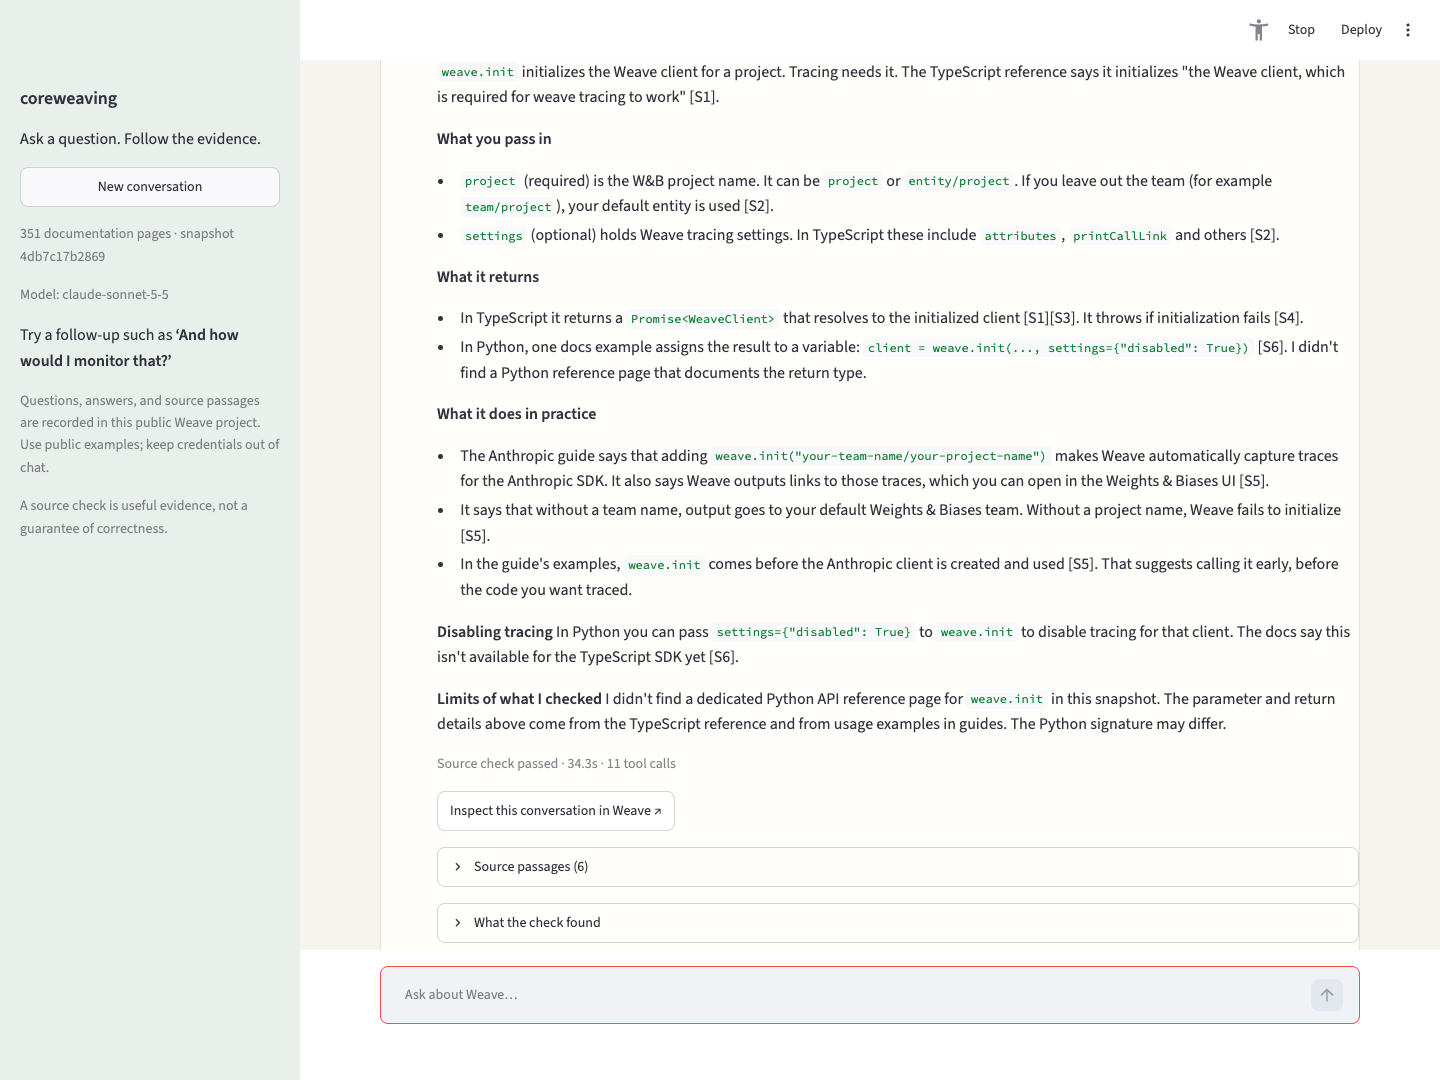
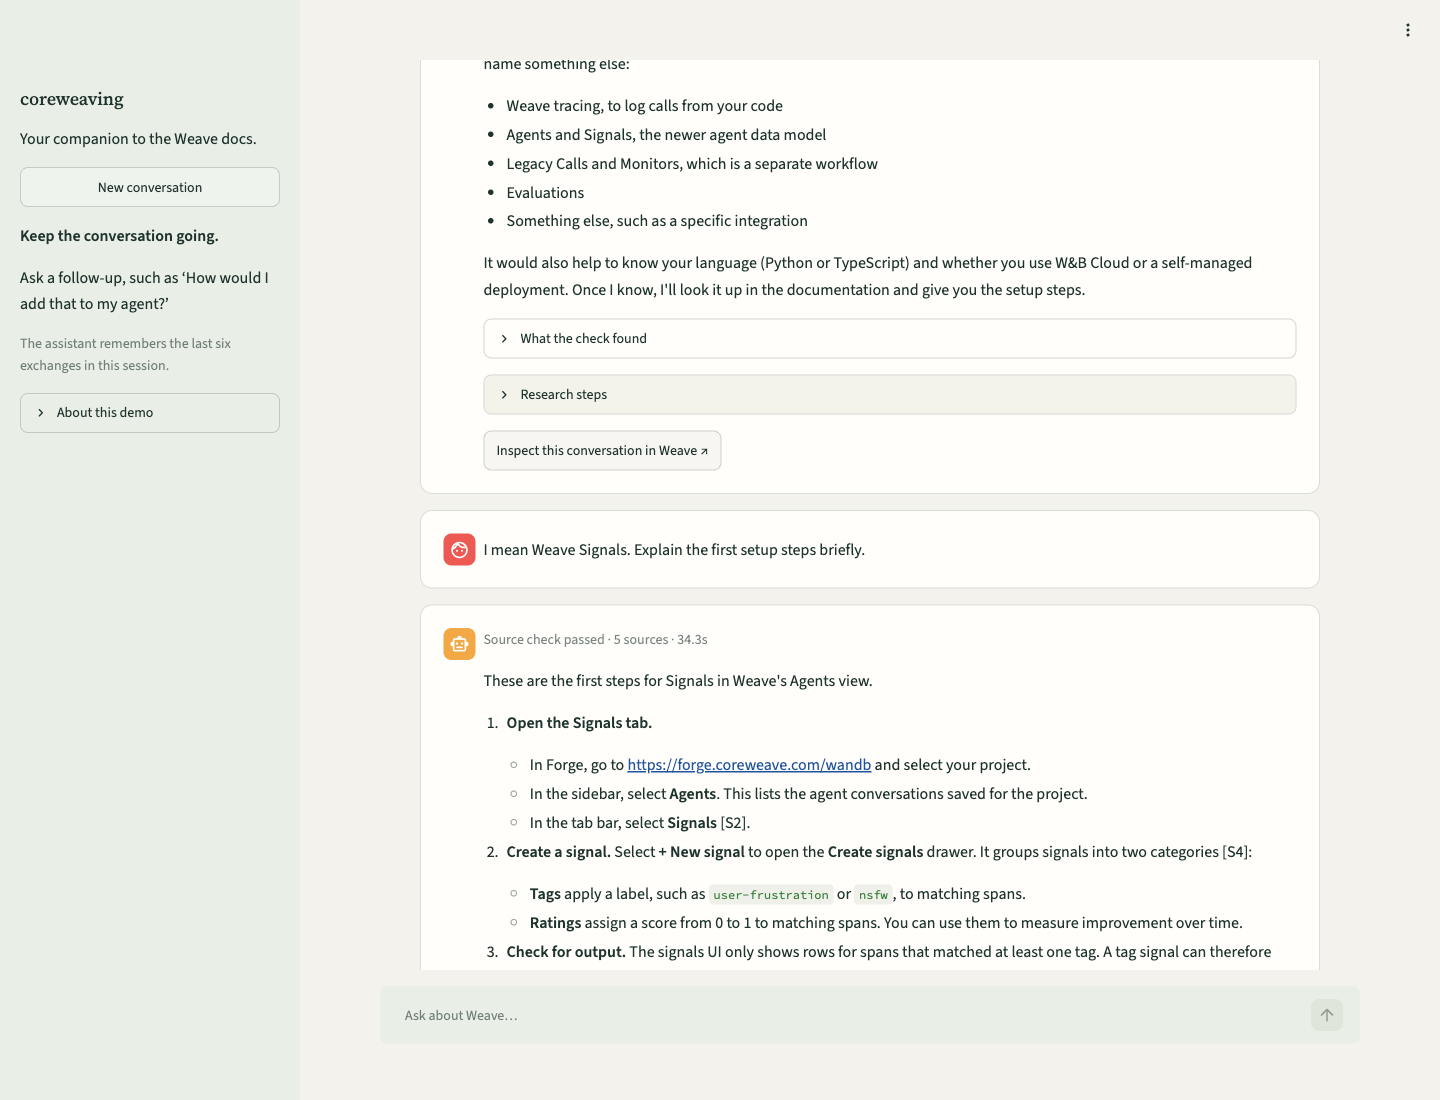
Clarify the welcome screen and guard against repeated submissions

diff --git a/app.py b/app.py
@@ -6,13 +6,28 @@ from coreweaving.agent import Agent, Session
 from coreweaving.config import init_weave, settings
 from coreweaving.corpus import Corpus
 
-st.set_page_config(page_title="Coreweaving · Ask the docs", page_icon="◉", layout="wide")
+st.set_page_config(
+    page_title="Coreweaving · Ask the docs",
+    page_icon="◉",
+    layout="wide",
+    initial_sidebar_state="auto",
+)
 st.markdown(
     """<style>
-.stApp {background:#f6f4ee} .block-container {max-width:1150px;padding-top:3rem}
-h1 {font-family:Georgia,serif;font-weight:500;letter-spacing:-1.5px}
-[data-testid=stSidebar] {background:#e9efea}
-[data-testid=stChatMessage] {border:1px solid #dce4dd;border-radius:14px;background:#fffefa}
+.block-container {max-width:1060px;padding-top:4rem;padding-bottom:3rem}
+[data-testid=stHeading] h1 {font-family:Georgia,serif;font-weight:400;
+    font-size:clamp(2.25rem,4vw,3.4rem);letter-spacing:-1.5px;line-height:1.13}
+[data-testid=stSidebar] {background:#e8eee5}
+[data-testid=stChatMessage] {border:1px solid #d7dfd2;border-radius:12px;background:#fffefa;
+    padding:1.4rem}
+[data-testid=stChatMessage] p {line-height:1.65}
+.st-key-starter_learn,.st-key-starter_build,.st-key-starter_evaluate {
+    background:#fffefa;border-radius:10px}
+.st-key-starters [data-testid=stCaptionContainer] {min-height:3.5rem}
+@media(max-width:640px) {
+    [data-testid=stChatMessage] {padding:1rem}
+    .st-key-starters [data-testid=stCaptionContainer] {min-height:0}
+}
 </style>""",
     unsafe_allow_html=True,
 )
@@ -24,15 +39,15 @@ def resources():
 
 
 def show_result(result):
-    st.markdown(result["answer"])
     passed = result["verification"]["passed"]
     st.caption(
         f"{'Source check passed' if passed else 'Source check did not pass'} · "
-        f"{result['elapsed_seconds']:.1f}s · {len(result['actions'])} tool calls"
+        f"{len(result['sources'])} sources · {result['elapsed_seconds']:.1f}s"
     )
-    st.link_button("Inspect this conversation in Weave ↗", result["trace_url"])
+    st.markdown(result["answer"])
     if result["sources"]:
-        with st.expander(f"Source passages ({len(result['sources'])})"):
+        with st.expander(f"Sources · {len(result['sources'])} sources"):
+            st.caption("Match [S1], [S2], and other citations to the passages below.")
             for source in result["sources"]:
                 if "url" in source:
                     st.markdown(f"**[{source['source_id']}] [{source['title']}]({source['url']})**")
@@ -46,6 +61,10 @@ def show_result(result):
                     st.code(source["code"], language="python")
                     st.text(source.get("output", source.get("error", "")))
     with st.expander("What the check found"):
+        st.caption(
+            "A separate model call compared the draft with these sources. "
+            "This check can miss mistakes; it is not a guarantee of correctness."
+        )
         for index, check in enumerate(result["verification_attempts"], 1):
             st.markdown(f"**Draft {index}: {'passed' if check['passed'] else 'needs revision'}**")
             for claim in check["claims"]:
@@ -59,6 +78,7 @@ def show_result(result):
             st.markdown(f"**{action['tool']}**")
             st.json(action["input"], expanded=False)
             st.json(action["result"], expanded=False)
+    st.link_button("Inspect this conversation in Weave ↗", result["trace_url"])
 
 
 try:
@@ -75,42 +95,72 @@ if "session" not in st.session_state:
 
 with st.sidebar:
     st.markdown("### coreweaving")
-    st.write("Ask a question. Follow the evidence.")
-    if st.button("New conversation", use_container_width=True):
+    st.write("Your companion to the Weave docs.")
+    if st.button("New conversation", width="stretch"):
         st.session_state.session = Session()
         st.session_state.turns = []
         st.rerun()
-    st.caption(f"{len(corpus.pages)} documentation pages · snapshot {corpus.snapshot_id[:12]}")
-    st.caption(f"Model: {config.agent_model}")
-    st.markdown("Try a follow-up such as **‘And how would I monitor that?’**")
-    st.caption(
-        "Questions, answers, and source passages are recorded in this public Weave project. "
-        "Use public examples; keep credentials out of chat."
-    )
-    st.caption("A source check is useful evidence, not a guarantee of correctness.")
+    st.markdown("**Keep the conversation going.**")
+    st.write("Ask a follow-up, such as ‘How would I add that to my agent?’")
+    st.caption("The assistant remembers the last six exchanges in this session.")
+    with st.expander("About this demo"):
+        st.caption(f"{len(corpus.pages)} saved Weave documentation pages")
+        st.caption(f"Snapshot: {corpus.snapshot_id[:12]}")
+        st.caption(f"Model: {config.agent_model}")
+        st.caption("Code examples run in an offline Python container when needed.")
+        st.caption("New conversations and server restarts clear conversation memory.")
 
-st.caption("WEAVE DOCUMENTATION / AN ASSISTANT YOU CAN INSPECT")
+st.caption("COREWEAVING / WEAVE DOCUMENTATION")
 st.title("Good answers leave a trail.")
-st.write("Explore the docs with an assistant that searches, reads, and checks its answer.")
+st.write("Ask about Weave. See the answer, its sources, and how it was checked.")
+st.caption(
+    "This demo records conversations in a public Weave project. "
+    "Use public examples and keep credentials out of chat."
+)
+if not st.session_state.turns:
+    # An inline welcome field avoids the pinned chat layout scrolling a narrow
+    # first screen past its heading. Conversation input stays pinned below.
+    with st.container(key="welcome_input"):
+        question = st.chat_input("Ask about Weave…", key="welcome_question")
+else:
+    question = st.chat_input("Ask about Weave…", key="conversation_question")
+
+starter_area = st.empty()
 if not st.session_state.turns:
     examples = [
-        "How do I trace a custom multi-turn agent and add a Signal?",
-        "Does adding @weave.op automatically put my agent in the Agents view?",
-        "Can Signals guarantee that my agent never hallucinates?",
+        (
+            "learn",
+            "Understand Weave",
+            "How do tracing, evaluations, and Signals fit together?",
+        ),
+        (
+            "build",
+            "Trace an agent",
+            "How do I trace a custom multi-turn agent in Python?",
+        ),
+        (
+            "evaluate",
+            "Build an evaluation",
+            "How do I evaluate my agent using a dataset and an LLM judge?",
+        ),
     ]
-    columns = st.columns(3)
-    for column, example in zip(columns, examples):
-        if column.button(example, use_container_width=True):
-            st.session_state.pending_question = example
+    with starter_area.container(), st.container(key="starters"):
+        st.markdown("**Start with a task, or ask your own question.**")
+        for column, (key, label, example) in zip(st.columns(3), examples):
+            with column, st.container(border=True, key=f"starter_{key}"):
+                if st.button(label + " →", width="stretch", wrap=True):
+                    st.session_state.pending_question = example
+                st.caption(example)
 
-for question, result in st.session_state.turns:
+for previous_question, previous_result in st.session_state.turns:
     with st.chat_message("user"):
-        st.markdown(question)
+        st.markdown(previous_question)
     with st.chat_message("assistant"):
-        show_result(result)
+        show_result(previous_result)
 
-question = st.chat_input("Ask about Weave…") or st.session_state.pop("pending_question", None)
+question = question or st.session_state.pop("pending_question", None)
 if question:
+    starter_area.empty()
     with st.chat_message("user"):
         st.markdown(question)
     with st.chat_message("assistant"):
@@ -122,9 +172,13 @@ if question:
                     st.write(event["detail"])
                 elif stage in ("search_docs", "read_page", "run_python"):
                     detail = event["detail"]
-                    st.write(
-                        f"{stage}: {detail.get('query', detail.get('page_id', 'offline example'))}"
-                    )
+                    if stage == "search_docs":
+                        st.write(f"Searching: {detail.get('query', '')}")
+                    elif stage == "read_page":
+                        page = corpus.pages.get(detail.get("page_id"))
+                        st.write(f"Reading: {page[0].title if page else 'a documentation page'}")
+                    else:
+                        st.write("Trying a small Python example in the offline container.")
                 elif stage == "verification":
                     st.write(
                         "Source check passed."
@@ -143,3 +197,4 @@ if question:
         show_result(result)
     st.session_state.turns.append((question, result))
     weave_client.flush()
+    st.rerun()

diff --git a/tests/test_app.py b/tests/test_app.py
@@ -1,0 +1,68 @@
+"""UI reruns must never turn conversation history into another paid request."""
+
+from types import SimpleNamespace
+
+import streamlit as st
+from streamlit.testing.v1 import AppTest
+
+from coreweaving.config import ROOT, Settings
+
+
+def test_each_submission_runs_once_across_layout_changes_and_reset(monkeypatch):
+    requests = []
+
+    class FakeAgent:
+        def __init__(self, *args):
+            pass
+
+        def run(self, question, session, update):
+            requests.append((question, session.conversation_id))
+            return {
+                "answer": f"Checked answer to: {question}",
+                "verification": {"passed": True, "issues": []},
+                "verification_attempts": [],
+                "sources": [],
+                "actions": [],
+                "elapsed_seconds": 0.1,
+                "trace_url": "https://example.test/" + session.conversation_id,
+            }
+
+    monkeypatch.setattr("coreweaving.agent.Agent", FakeAgent)
+    monkeypatch.setattr(
+        "coreweaving.corpus.Corpus", lambda: SimpleNamespace(pages={}, snapshot_id="test-snapshot")
+    )
+    monkeypatch.setattr("coreweaving.config.settings", lambda: Settings(project="test/test"))
+    monkeypatch.setattr(
+        "coreweaving.config.init_weave", lambda: SimpleNamespace(flush=lambda: None)
+    )
+    st.cache_resource.clear()
+    try:
+        app = AppTest.from_file(ROOT / "app.py", default_timeout=10).run()
+        assert not app.exception
+        assert app.chat_input[0].key == "welcome_question"
+
+        app.chat_input[0].set_value("Explain tracing.").run()
+        assert not app.exception
+        assert len(requests) == 1
+        assert app.chat_input[0].key == "conversation_question"
+
+        app.run()  # An ordinary UI rerun must not replay the previous question.
+        assert len(requests) == 1
+        app.chat_input[0].set_value("How do I add a Signal?").run()
+        assert not app.exception
+        assert [text for text, _ in requests] == ["Explain tracing.", "How do I add a Signal?"]
+        assert requests[0][1] == requests[1][1]
+        assert len(app.chat_input) == 1
+
+        next(button for button in app.button if button.label == "New conversation").click().run()
+        assert len(requests) == 2
+        assert app.chat_input[0].key == "welcome_question"
+        next(button for button in app.button if button.label == "Trace an agent →").click().run()
+        assert not app.exception
+        assert len(requests) == 3
+        assert "multi-turn agent" in requests[-1][0]
+        assert requests[-1][1] != requests[0][1]
+        app.run()
+        assert len(requests) == 3
+    finally:
+        st.cache_resource.clear()

diff --git a/README.md b/README.md
@@ -125,7 +125,7 @@ An earlier [baseline run](results/baseline-v1/summary.json) passed 13/13. Before
 
 The [judge calibration check](results/judge-calibration.json) accepted a recorded supported answer and rejected a fabricated `hallucination_free=True` API guarantee, even though the fabricated answer retained a real source ID and a passing verifier flag. This is a two-fixture diagnostic, separate from the 13-case dataset.
 
-**Reproducibility and delivery.** The latest full run records source hash, dataset hash, snapshot hash, and evaluated commit `1c39ad8`. Later commits `d98a17c` and `2077e2c` fix Signal configuration, agent filtering, and evaluation transport; the planner, verifier, retrieval, sandbox, and UI behavior are unchanged. A [focused delivery check](results/delivery-check/summary.json) passed and confirmed automatic recovery. Weave 0.54.0 returned repeated 502 errors for the eager parent evaluation's end event; the harness now checks ingestion and, if needed, replays the actual complete call record with its original ID, timestamps, and summary. The [submission recovery receipt](results/submission-v1/remote-recovery.json) confirms delivery. Earlier baseline/pipeline parent calls remain incomplete remotely; their local results and nested scores are preserved. See the [evidence index](results/README.md).
+**Reproducibility and delivery.** The latest full run records source hash, dataset hash, snapshot hash, and evaluated commit `1c39ad8`. Later commits `d98a17c` and `2077e2c` fix Signal configuration, agent filtering, and evaluation transport. A subsequent interface review improved the welcome screen and conversation input; the planner, verifier, retrieval, and sandbox remain unchanged. The interface checks are recorded separately from the full quality evaluation. A [focused delivery check](results/delivery-check/summary.json) passed and confirmed automatic recovery. Weave 0.54.0 returned repeated 502 errors for the eager parent evaluation's end event; the harness now checks ingestion and, if needed, replays the actual complete call record with its original ID, timestamps, and summary. The [submission recovery receipt](results/submission-v1/remote-recovery.json) confirms delivery. Earlier baseline/pipeline parent calls remain incomplete remotely; their local results and nested scores are preserved. See the [evidence index](results/README.md).
 
 This small, development-visible dataset reveals failure modes; its pass rate is not a general accuracy estimate. The judge is fallible. There is no claim that verification improves quality without a controlled comparison.
 
@@ -137,7 +137,9 @@ uv run pytest -q -m 'not sandbox' # without Docker
 uv run ruff check .
 ```
 
-All **15 tests passed**. They exercise invented citations, rejected drafts, research limits, provider failures, follow-up context, Markdown code fences, snapshot integrity, page-level workflow warnings, and container isolation/time/output limits. A [fresh-checkout verification](results/fresh-install.json) restored all 351 pages from upstream with matching hashes, installed the locked dependencies, passed the tests, and answered a real question. Browser checks exercised a real question, source display, and trace link without JavaScript errors. [Backend trace verification](results/trace-verification.json) confirms two turns under each of two conversation IDs, model/tool spans, verifier spans, and recorded token usage.
+All **16 tests passed**. They exercise invented citations, rejected drafts, research limits, provider failures, follow-up context, Markdown code fences, snapshot integrity, page-level workflow warnings, container isolation/time/output limits, and one agent request per UI submission across reruns and conversation resets. The UI regression test uses a fake agent and makes no model requests. An earlier [fresh-checkout verification](results/fresh-install.json) restored all 351 pages from upstream with matching hashes, installed the locked dependencies, passed the then-current 15 tests, and answered a real question.
+
+The [interface review](results/ui-review.json) checked phone, tablet, and desktop layouts, starter buttons, source/check/research panels, and a real two-turn conversation without JavaScript errors. The final conversation retained one conversation ID and submitted each question once. [Desktop](docs/images/app-start.png), [mobile](docs/images/app-mobile.png), and [conversation](docs/images/app-answer.png) screenshots show the reviewed interface. Separate [backend trace verification](results/trace-verification.json) confirms two turns under each of two earlier conversation IDs, model/tool spans, verifier spans, and recorded token usage.
 
 For the interview:
 

diff --git a/docs/AI_BUILD_LOG.md b/docs/AI_BUILD_LOG.md
@@ -41,3 +41,11 @@ The evaluation results and live-trace evidence should be discussed as observatio
 The owner asked for expectations and an adoption plan in a webpage before further product decisions. The interactive plan separates the original requirements, recorded evidence, and proposed experience. The owner clarified that the brief does not specify a narrow target user. Adding Weave to an existing agent is one demo scenario; the assistant remains useful across the documentation. A first useful action, understandable explanations, and inspectable evidence are the intended advantages. These are product hypotheses, not measured adoption results or claims about LLL's formal methodology. A three-person usability pilot is proposed after the take-home.
 
 The plan and technical guide were checked in a browser for navigation, keyboard tab controls, reading-progress persistence, and mobile overflow. The hosted plan is private; the repository contains a local copy that can be opened without model calls.
+
+## Interface review
+
+The owner asked to see the running product and review its appearance. A real Chrome session showed clipped starter-button text, inconsistent heading styling, and a mobile welcome screen that scrolled partly past its heading. Short action labels with visible example questions, an explicit Streamlit theme, and an inline welcome input corrected those problems. Model and snapshot details moved into an expandable sidebar section; the public-trace notice remains visible above the first input, including on mobile.
+
+The AI-assisted input refactor introduced a functional bug: the history-rendering loop reused `question`, overwriting the newly submitted input. Combined with a rerun after completion, this replayed the previous question. The live browser check caught the repeated requests; the server was stopped and the history variables were renamed. The final real two-turn check completed each distinct question once, retained one conversation ID, and showed one active input. A Streamlit AppTest with a fake agent now checks initial submission, ordinary reruns, a follow-up, conversation reset, and a starter-button submission without spending API credits.
+
+All 16 tests and lint/format checks passed. The [review record](../results/ui-review.json) separates the real browser checks from the fake-agent regression and the earlier 13-case quality evaluation. This pass changes interface presentation and input flow; it does not change the agent's prompts, retrieval, verifier, or execution sandbox.

diff --git a/results/README.md b/results/README.md
@@ -16,6 +16,7 @@ All files contain recorded outputs or explicitly labeled fixtures. No example re
 | [Signal filter verification](signal-filter-verification.json) | Included agent failure versus excluded evaluator control, with exact monitor query and observation window. Earlier prompt-only filtering was insufficient. |
 | [Fresh install](fresh-install.json) | Separate checkout, locked dependency install, 351 docs restored from upstream, 15 passing tests, and an actual checked answer. |
 | [Trace verification](trace-verification.json) | Two actual two-turn conversations, their model/tool/verifier span counts, recorded token usage, and trace IDs queried from Weave. |
+| [Interface review](ui-review.json) | Layouts at 390, 768, and 1440 pixels; plan and guide navigation; actual starter submission and evidence panels; final two-turn conversation after the input transition fix. All 16 local tests passed, including a fake-agent regression for repeated submissions. Separate from the 13-case quality evaluation. |
 
 The failed latest case is [03-tracing-and-signals](submission-v1/cases/03-tracing-and-signals.json). It received 4/4 correctness and 2/4 uncertainty, primarily for omitting the expected caution about fallible monitoring. The judge also questioned text from a page introduction that was actually supplied in `page_context`. The judgment is retained as recorded; manual calibration remains useful.
 
